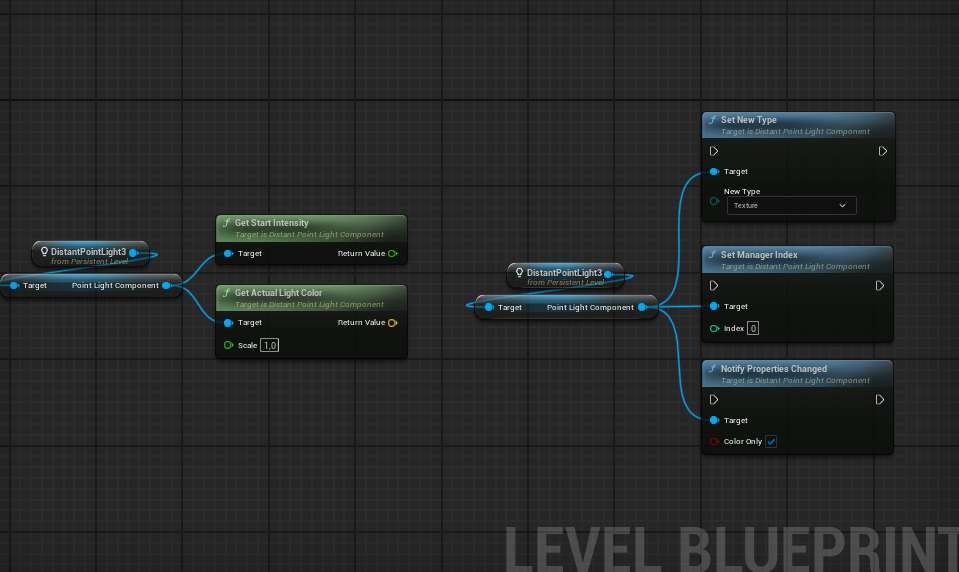
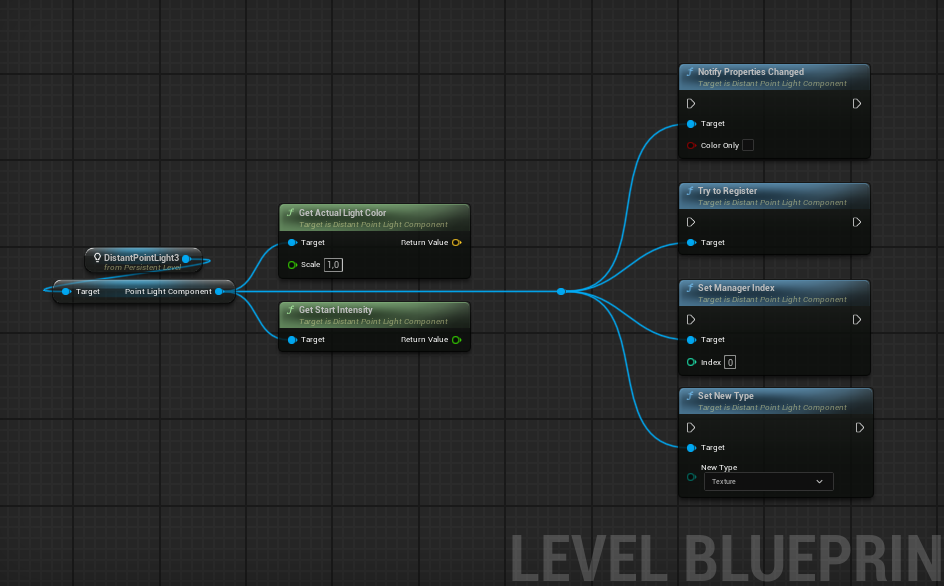
Update to latest hextra version and Distant Lights 1.2

Changed region(s): [[0.0, 0.0892, 0.9523, 0.8619], [0.5222, 0.8916, 1.0, 1.0]]

diff --git a/content/distantlights/general/_index.md b/content/distantlights/general/_index.md
@@ -88,23 +88,42 @@ The `Lights Specular` parameter is enabled by default, adding simplified specula
 | **Manager Index** | 0 | Unique index of the manager. |
 | **Map Size** | 2.0, 2.0, 0.2 | Controls the size of the Box Component and world size. Affects render target resolution. Size is in **kilometers**. |
 | **Base Lights Intensity** | 1.0 | Base intensity multiplier for all distant lights. |
-| **Post Process Material** | PP_DistantLights | Post process material used for texture lights. |
-| **Render Target Scale** | 1.0 | Scale factor for render target resolution. |
-| **Mesh Material** | M_DistantLight | Material used for mesh lights. |
-| **Sprite Material** | M_DistantLight_Sprite | Material used for sprite lights. |
-| **Sprite Enlargement** | 1.0 | Scales the instance size to counter occlusion culling. Does not change the actual visual size of the sprite. |
 | **Flares Material** | M_DistantLight_Flare | Default material used for flares, if not overridden in the Distant Light component. |
+
+The `Run On Construction` parameter prevents automatic light generation during editor construction and `BeginPlay`. When enabled, you are responsible for calling `Build Lights` at the appropriate time to ensure distant lights are visible.
 
 ---
 
-### Advanced Parameters
+### Mesh/Sprite Parameters
+
+| Variable | Default | Description |
+|:--|:--|:--|
+| **Fog Intensity** | 1.0 | Changes the intensity of fog for all mesh/sprite distant lights. |
+| **Mesh Material** | M_DistantLight | Material used for mesh lights. |
+| **Cull Distances** | 0.0 | Defines the start and end cull distances for instanced meshes. Set to 0 to disable. |
+| **Sprite Material** | M_DistantLight_Sprite | Material used for sprite lights. |
+| **Sprite Enlargement** | 1.0 | Scales the instance size to counter occlusion culling. Does not change the actual visual size of the sprite. |
+
+---
+
+### Post Process Parameters 
+
+| Variable | Default | Description |
+|:--|:--|:--|
+| **Allow Texture Lights** | true | Enables texture light registration — creates a dynamic post-process material and allocates render targets. Disable to save memory when using only mesh or sprite lights.  |
+| **Post Process Material** | PP_DistantLights | Post process material used for texture lights. |
+| **Render Target Scale** | 1.0 | Scale factor for render target resolution. |
+| **Post Process Priority** | 10 | Base priority order for the post process material. The final index is calculated based on the number of managers in the level. |
+| **Texture Data** | None | Render target textures. For debugging purposes. |
+
+---
+
+### Material Collection Paramets 
 
 | Variable | Default | Description |
 |:--|:--|:--|
 | **Material Collection** | None | Optional material parameter collection. Useful for emissive materials with light components, allowing light intensity to blend into them as well. |
 | **Intensity Param Name** | None | Parameter name in the MPC used for intensity control. |
-| **Post Process Priority** | 10 | Base priority order for the post process material. The final index is calculated based on the number of managers in the level. |
-| **Texture Data** | None | Render target textures. For debugging purposes. |
 
 ----
 
@@ -188,6 +207,8 @@ Light component destruction, movement, and visibility are auto-tracked by the ma
 {{< callout type="important" >}}
 The EV light unit type can sometimes become negative in the Editor when changing light unit types. Additionally, blending results may be incorrect when using EV units. Therefore, Distant Light Actors force **Candelas** instead of EV. (No idea how a light can have a negative value.)
 {{< /callout >}}
+
+
 
 ### Component Functions
 

diff --git a/content/roads/start/_index.md b/content/roads/start/_index.md
@@ -1,0 +1,71 @@
+---
+title: Getting Started
+type: docs
+weight: 1
+prev: roads
+next: roads/actor
+---
+
+A quick guide to get started with the Powerlines plugin.
+
+## Installing the Plugin
+
+{{% steps %}}
+
+####  Download
+Download the plugin from the **Fab** tab in the Epic Games Launcher.
+
+#### Install
+Click **Install to engine** and select your installed Unreal Engine version.
+
+#### Open Plugins Window
+Open your project, go to **Edit → Plugins**, and find the Distant Lights plugin window.
+
+{{< callout type="info" >}}
+Type `lights` in search bar.
+{{< /callout >}}
+
+#### Enable the Plugin
+Enable the plugin by checking its box as shown below.
+![Enable plugin](Lights_EnablePlugin.png)
+{{% /steps %}}
+
+## Quickstart
+
+{{% steps %}}
+
+#### Navigate to the Plugin Folder
+Open the Content Browser and navigate to the Powerlines plugin folder.
+![Navigate to plugin](Lights_PluginFolder.png)
+{{< callout type="info" >}}
+If the plugin folder is not visible, ensure **Show Plugin Content** is enabled. Click the **Settings** button in the top-right corner of the Content Browser and check this option.
+![Show plugin folder](/images/PluginContent.png)
+{{< /callout >}}
+
+#### Add Distant Lights Actor
+
+Navifate to **Place Actors** tab, select `Lights` category, find `Distant Lights` actor and drag the actor from there into level.
+
+
+
+#### Add Distant Point Light 
+
+Select Distant Point Light or Spot Light from the same category in **Place Actors** tab and drag drog the actor inside distant lights box.
+Optionally, modufy default paramaters of light.
+
+
+
+
+#### Check Result
+
+Change the camera position and increase distance to distant lights to ensure everything is working. 
+
+
+
+Or you can simply press visibility icon of `Distant Lights` manager in **Outliner** tab.
+
+{{< callout >}}
+If something gone wrong, you can always press `Refresh` checkbox in Distant Lights manager to regenerate distant lights.
+{{< /callout >}}
+
+{{% /steps %}}

diff --git a/content/roads/_index.md b/content/roads/_index.md
@@ -1,0 +1,37 @@
+---
+title: Road Builder
+toc: false
+---
+
+
+{{< prod-button link="https://fab.com/s/5c8e3dabe135" >}}
+
+
+Distant Lights is an Unreal Engine plugin that creates proxy lights to dramatically increase light draw distance and optimize dynamic shadow distance. Its world subsystem allows managers to act as world lighting managers, blending all distant and actual light intensities quickly and efficiently. Supports Point and Spot lights.
+
+
+### [🎬Overview](https://youtu.be/PrJWDIklK-w)   |   [🕹Demo](https://drive.google.com/file/d/11aKZMHRnYBO01FIex4XhtKFRTlOQ28tN/view?usp=sharing)  |   [💡Example Project](https://drive.google.com/file/d/1VhL-Hwu3bqtEKo0B3Q845btprJxpBOEk/view?usp=sharing) 
+
+
+### Key Features
+
+- **Extended Draw Distance:** Significantly increase light draw distance.
+- **Optimized Shadows:** Improves performance by reducing the draw distance of real shadow-casting lights.
+- **Depth Fog Support:** Adds simple depth fog for atmospheric, foggy light effects.
+- **Animated Flares:** Adds animated flare effects to light components for enhanced visuals.
+- **Instanced Light Meshes:** Light meshes are all batched. 
+- **World Partition:** Fully supports Unreal's World Partition system.
+- **High Performance:** Written entirely in C++.
+- **Multiplayer Ready:** Full network replication support.
+- **Blueprint:** Friendly for developers who prefer Blueprints.
+- **Low Storage Footprint:** Tiny plugin size.
+  
+
+
+--- 
+
+{{< cards >}}
+  {{< card link="start" title="Getting Started" icon="academic-cap" subtitle="Guide" >}}
+  {{< card link="roads-changelog" title="Change Log" icon="document-text" subtitle="Log" >}}
+{{< /cards >}}
+

diff --git a/content/distantlights/lights-changelog.md b/content/distantlights/lights-changelog.md
@@ -5,6 +5,28 @@ weight: 10
 prev: /distantlights
 ---
 
+## Version 1.2
+
+**Added**
+* `Try To Register` Blueprint function for spot and point light components. This allows you to manually register a light in cases where auto‑registration fails.
+- `Allow Texture Lights` variable to the Distant Lights Manager, enabling you to skip texture lights and save memory on post‑process and render target creation.
+- `Run On Construction` variable to allow manual light building in Blueprints — useful for fully dynamic scenarios with procedural generation.
+* Start and end cull distances variable for mesh/sprite lights. Allows to cap max draw distance on instanced distant lights. 
+![New blueprint nodes in 1.2](Lights_Func_1.2.png)
+
+
+**Fixed**
+- Fixed an issue where new dynamic lights were not properly registered at runtime in some situations.
+- Various small non‑critical fixes and cleanup.
+
+**Changed**
+- Added separate categories for variables in the Distant Lights Manager.
+- Increased the size of the editor actor sprite in the Distant Lights Manager.
+- Updated the example project to the latest version of the plugin.
+
+
+---
+
 ## Version 1.1
 
 **Added**

diff --git a/content/_index.md b/content/_index.md
@@ -44,6 +44,13 @@ width: full
     doc_icon="book-open" 
     prod_link="https://fab.com/s/5c8e3dabe135"
 >}}
+  <!-- {{< widget-product
+    image="images/DistantLights.png"
+    doc_link="roads" 
+    doc_text="Documentation"
+    doc_icon="book-open" 
+    prod_link="https://fab.com/s/5c8e3dabe135"
+>}} -->
 
 {{< /product-grid >}}
 

diff --git a/content/roads/roads-changelog.md b/content/roads/roads-changelog.md
@@ -1,0 +1,12 @@
+---
+title: Changelog
+type: docs
+weight: 10
+prev: /roads
+---
+
+## Version 1.0
+
+* Initial realese. 
+
+

diff --git a/content/roads/actor/_index.md b/content/roads/actor/_index.md
@@ -1,0 +1,17 @@
+---
+title: Actor
+type: docs
+weight: 2
+prev: roads/start
+next: roads-changelog
+
+---
+
+
+
+
+
+
+
+
+
